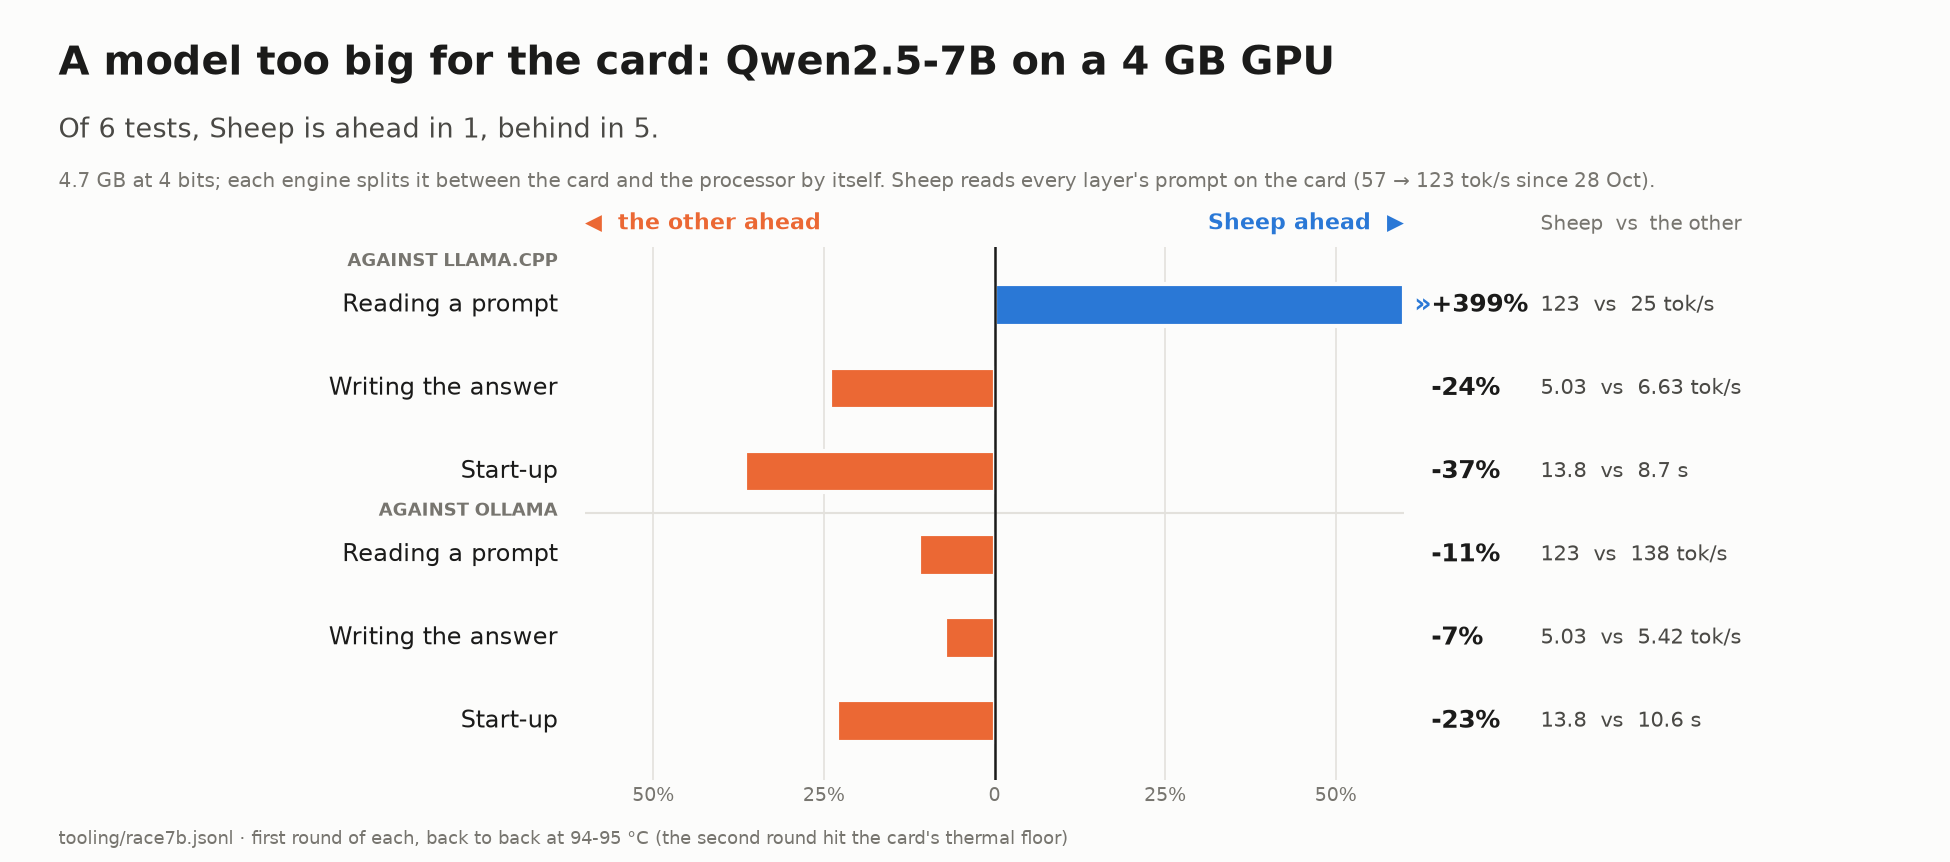
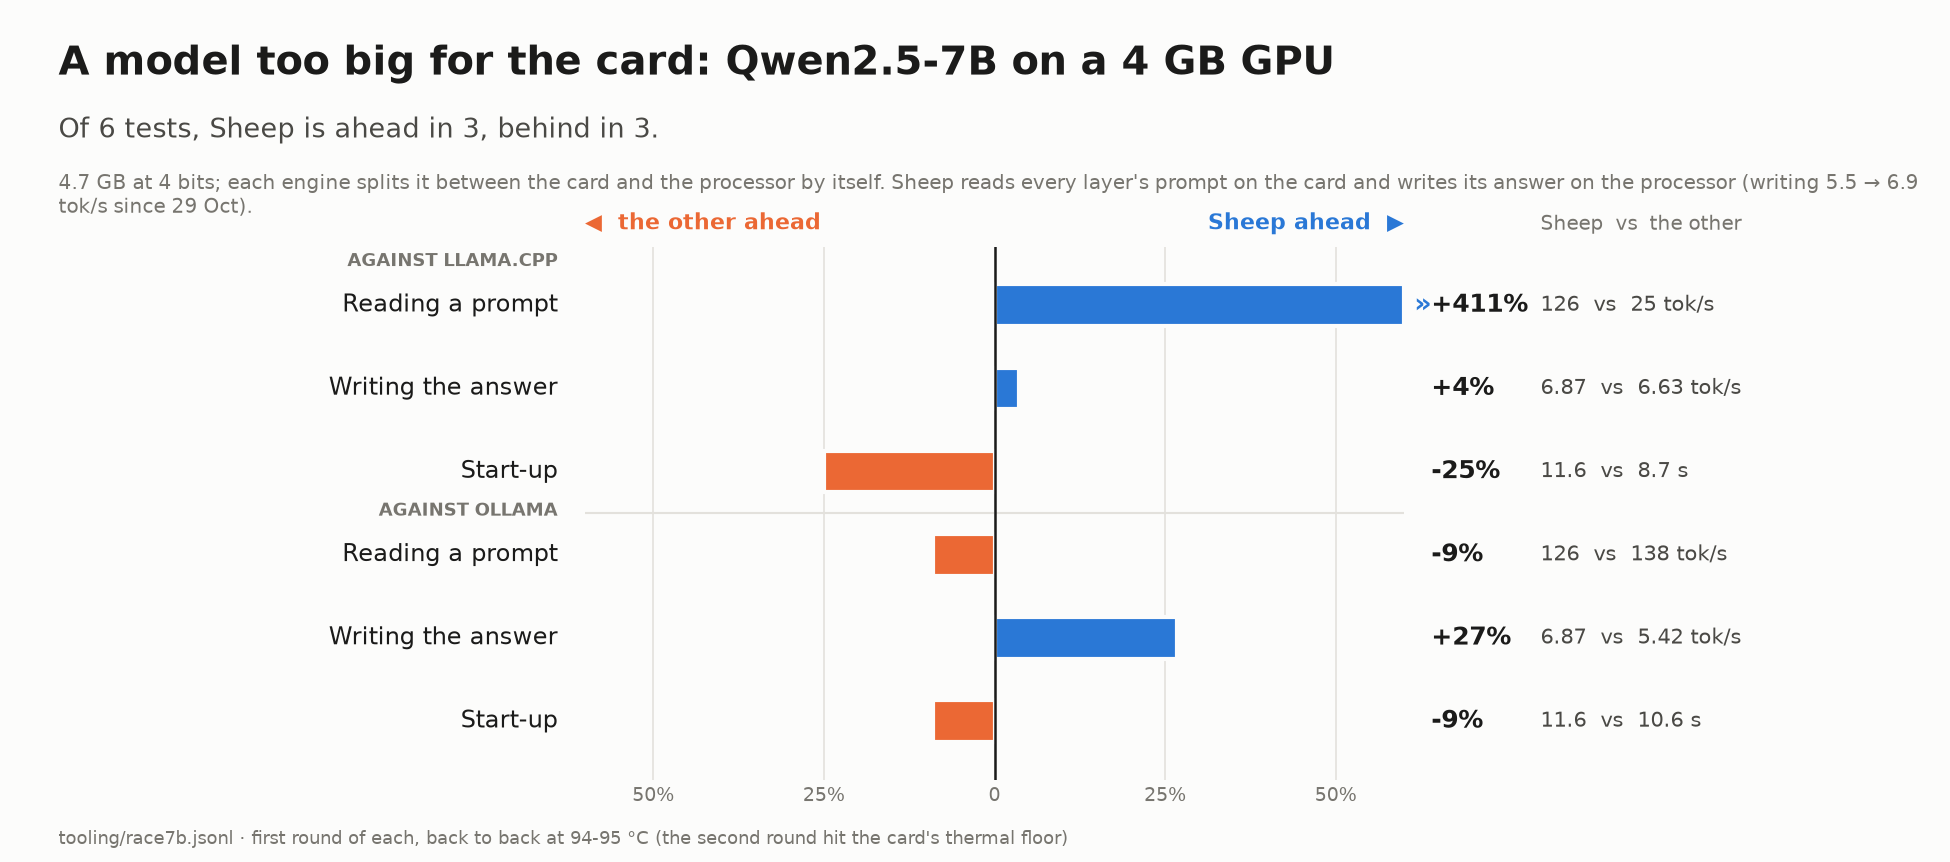
7B graph: read on the card, write on the CPU: ahead of llama.cpp on reading and writing, of Ollama on writing

diff --git a/tooling/bench_cards.py b/tooling/bench_cards.py
@@ -194,7 +194,7 @@ def big_model(out):
                   f"{s['load_s']:.1f}", f"{r['load_s']:.1f} s")]
     card(out, "big_model.png", "A model too big for the card: Qwen2.5-7B on a 4 GB GPU",
          "4.7 GB at 4 bits; each engine splits it between the card and the processor by itself. Sheep reads every "
-         "layer's prompt on the card (57 → 123 tok/s since 28 Oct).", rows, "the other",
+         "layer's prompt on the card and writes its answer on the processor (writing 5.5 → 6.9 tok/s since 29 Oct).", rows, "the other",
          "tooling/race7b.jsonl · first round of each, back to back at 94-95 °C (the second round hit the card's thermal floor)")
 
 
